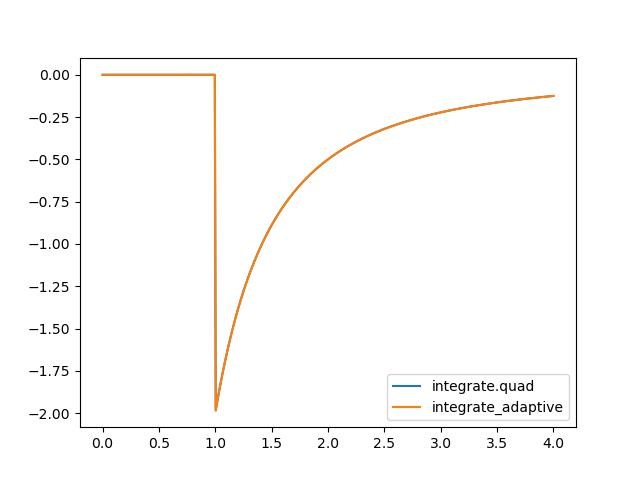
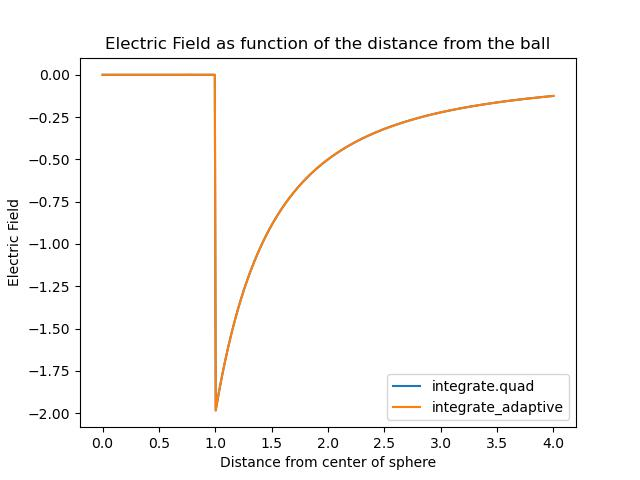
almost finished a2q1

Changed region(s): [[0.1562, 0.0625, 0.875, 0.125], [0.3438, 0.9375, 0.6875, 1.0], [0.0, 0.4062, 0.0312, 0.5938]]

diff --git a/Assignment 2/a2_q1.py b/Assignment 2/a2_q1.py
@@ -1,4 +1,3 @@
-from ast import arg
 import numpy as np
 import matplotlib.pyplot as plt
 import scipy as sci
@@ -33,6 +32,7 @@ def integrate_adaptive(fun, a, b, tol, extra = None):
 
 
 
+
 R = 1 # Radius of sphere
 sigma = 0.1*(4 * np.pi * R**2)**-1 # Surface charge density (total is 1 C)
 
@@ -48,12 +48,19 @@ y2 = to_int(x, 1.1)
 y3 = to_int(x, 3)
 y4 = to_int(x, 4)
 
-plt.plot(x, y2)
-plt.plot(x, y3)
-plt.plot(x, y4)
-#plt.show()
+plt.plot(x, y2, label = "z = 1.1")
+plt.plot(x, y3, label = "z = 3")
+plt.plot(x, y4, label = "z = 4")
+plt.xlabel("Distance from center of sphere")
+plt.legend()
+plt.title("Function to integrate")
+plt.savefig("figs/a2q1_func_int.jpg")
+plt.show()
 plt.clf()
 
+
+
+# Defining the electric field functions (with the built in integration)
 
 def efield_quad(z):
     '''Function that integrates the above function for a given z. Done with quad.'''
@@ -68,17 +75,20 @@ def efield_custom(z):
 
 
 
+# Plotting the electric field with the two integrators
 
-
-v = np.linspace(0, 4, 1001)
-y_data_quad = [efield_quad(i)[0] for i in v]
-y_data_custom = [efield_custom(i) for i in v]
+v = np.linspace(0, 4, 1001) # Linspace
+y_data_quad = [efield_quad(i)[0] for i in v]  # y data for quad
+y_data_custom = [efield_custom(i) for i in v] # y data for custom integrator
 #y_coul = 0.1/(4*np.pi*cons.epsilon_0*v**2)
 
 plt.clf()
 plt.plot(v, y_data_quad, label = "integrate.quad")
 plt.plot(v, y_data_custom, label = "integrate_adaptive")
 plt.legend()
+plt.ylabel("Electric Field")
+plt.xlabel("Distance from center of sphere")
+plt.title("Electric Field as function of the distance from the ball")
 plt.savefig("figs/a2q1_efield_ball.jpg")
 plt.show()
 

diff --git a/Assignment 2/Assignment_2.md b/Assignment 2/Assignment_2.md
@@ -10,11 +10,27 @@ We first look at the electric field of a uniformily charged ring. We kow that, a
 
 $$E_c = -\frac{Q z}{4\pi \epsilon_0(z^2 + R^2)^{3/2}} $$
 
-(found on [Hyperphysics](http://hyperphysics.phy-astr.gsu.edu/hbase/electric/elelin.html)).
+(found on [Hyperphysics](http://hyperphysics.phy-astr.gsu.edu/hbase/electric/elelin.html)). If we integrate this function at all angles from the center of the sphere (which is made of infinitelly thin rings) we can obtain the resulting function for the total electric field of the sphere. The integral we must consider, based on Problem 2.8 in Griffith's Introduction to electrodynamics is :
 
-We can plot this function (with a total charge on the ring of 1 $C$, which is admidetly pretty large, and let's assume a radius of 1 $m$ for simplicity):
+$$E_z(z) = \frac{ R^2 \sigma}{2 \epsilon_0} \int_0^\pi \frac{(z - R \cos \theta) \sin \theta}{\left(R^2 + z^2 - 2Rz \cos \theta \right)^{3/2}} d\theta$$
 
-![q1_ring_ef](figs/q1_ring_ef.jpg)
+The function inside the integral is
+
+$$\frac{ R^2 \sigma}{2 \epsilon_0} \frac{(z - R \cos \theta) \sin \theta}{\left(R^2 + z^2 - 2Rz \cos \theta \right)^{3/2}}$$
+
+This function looks like the following:
+
+![a2q1_func_int](figs/a2q1_func_int.jpg)
+
+As we approach the shell, at $z=1$ (the radius of the shell) we have a discontinuity at 0. 
+
+We then coded this function and passed it in both our own integrator and in `scipy`'s `integrate.quad`. The results are as follows (scanning through different $z$ values):
+
+![a2q1_efield_ball](figs/a2q1_efield_ball.jpg)
+
+The curves given by the two integrators are basically indistinguishable.
+
+The integration was done on the $[0, \pi]$ range for `integrate.quad`, but 
 
 We see that as we get further away from the source in the positive axis we get pulled back towards it and similarly for the negative direction. When we are dead at the center of the ring, the symmetry creates a 0 field.
 
